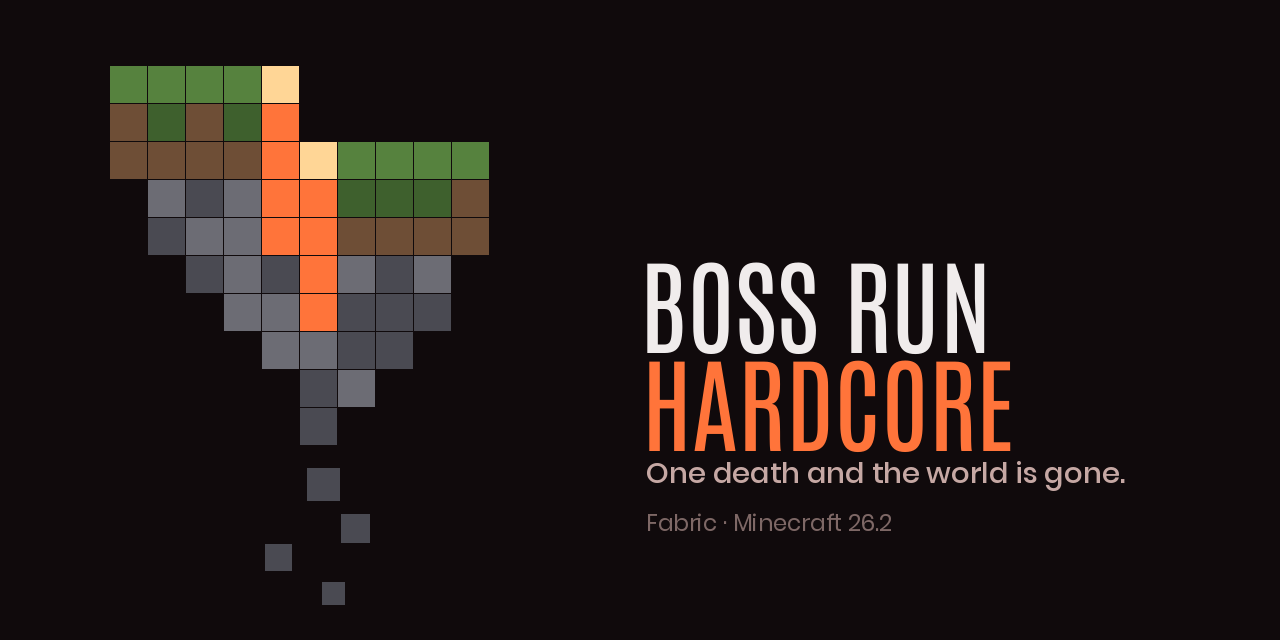
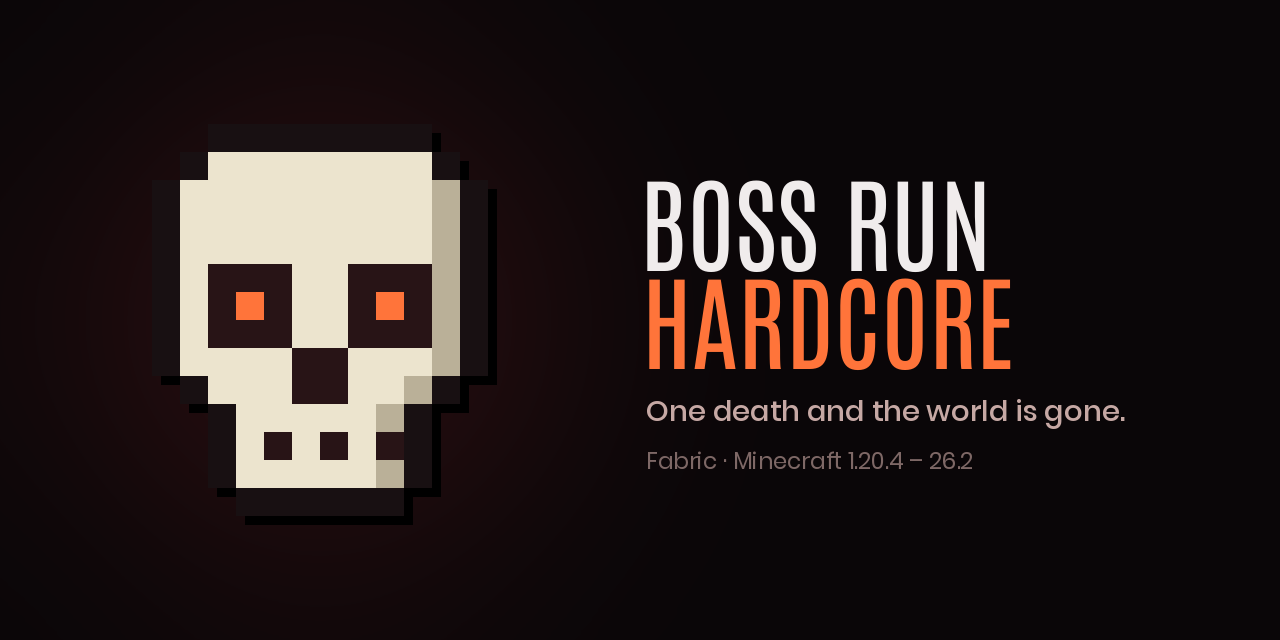
Nowa ikona i baner: pikselowa czaszka z żarzącymi się oczodołami

diff --git a/tools/make_art.py b/tools/make_art.py
@@ -1,14 +1,9 @@
 #!/usr/bin/env python3
-"""Sklada ikone projektu i baner z tego, co w tym modzie jest naprawde wlasne:
-znikajacego swiata.
-
-Kategoria "hardcore" na Modrincie to same serca - zlote, czerwone, przekreslone. Serce
-wygladaloby jak kazdy inny mod obok. Tresc Boss Runa jest inna: to nie gracz umiera,
-tylko SWIAT idzie do kosza. Ikona pokazuje wiec kawalek terenu pekajacy na pol, z rozzarzona
-szczelina i blokami odpadajacymi w ciemnosc.
+"""Sklada ikone projektu i baner: pikselowa czaszka z zarzacymi sie oczodolami.
 
 Rysujemy na grubej siatce (16 kratek na bok), bo ikona ma byc czytelna w 48 px na liscie -
 drobne detale i tak by tam zniknely, a kanciasty ksztalt czyta sie od razu jako Minecraft.
+Zar w oczach ma ten sam pomaranczowy, co napis HARDCORE na banerze.
 
 Uzycie:  python3 tools/make_art.py
          FONT_DIR=/sciezka/do/fontow python3 tools/make_art.py   # dla banera
@@ -18,92 +13,85 @@ Baner potrzebuje Antonio i Poppins (oba SIL OFL, Google Fonts). Nie trzymamy ich
 bez nich powstaje sama ikona.
 """
 import os
-import random
 from pathlib import Path
 
-from PIL import Image, ImageDraw, ImageFont
+from PIL import Image, ImageDraw, ImageFilter, ImageFont
 
 WYNIK = Path(__file__).resolve().parent.parent / "docs" / "media"
 FONTY = Path(os.environ.get("FONT_DIR", "/usr/share/fonts"))
 
-TLO = (16, 10, 12)          # prawie czern z czerwona nuta - niebezpieczenstwo bez krzyku
-TRAWA = (86, 130, 62)
-TRAWA_CIEN = (62, 96, 45)
-ZIEMIA = (110, 78, 54)
-KAMIEN = (108, 108, 116)
-KAMIEN_CIEN = (74, 74, 82)
-SZCZELINA = (255, 116, 58)   # rozgrzana krawedz pekniecia
-SZCZELINA_JASNA = (255, 214, 150)
+TLO = (10, 6, 8)
+TLO_POSWIATA = (40, 14, 16)  # czerwonawy srodek - niebezpieczenstwo bez krzyku
+ZAR = (255, 116, 58)
 
-# Szerokosc kolejnych rzedow terenu w kratkach, liczona od szczeliny w kazda strone.
-# Wyspa zwezajaca sie ku dolowi - kanciasty klin, nie prostokat.
-RZEDY = [5, 5, 5, 4, 4, 3, 2, 1]
-ZIARNO = 5
-
-
-def _kolor(r, losowy):
-    if r == 0:
-        return TRAWA
-    if r == 1:
-        return TRAWA_CIEN if losowy < .3 else ZIEMIA
-    if r == 2:
-        return ZIEMIA
-    return KAMIEN_CIEN if losowy < .35 else KAMIEN
+CZASZKA = [
+    "....KKKKKKKK....",
+    "...KWWWWWWWWK...",
+    "..KWWWWWWWWWSK..",
+    "..KWWWWWWWWWSK..",
+    "..KWWWWWWWWWSK..",
+    "..KWEEEWWEEESK..",
+    "..KWEOEWWEOESK..",
+    "..KWEEEWWEEESK..",
+    "..KWWWWEEWWWSK..",
+    "...KWWWEEWWSK...",
+    "....KWWWWWSK....",
+    "....KWEWEWEK....",
+    "....KWWWWWSK....",
+    ".....KKKKKK.....",
+]
+KOLORY = {"K": (24, 16, 18), "W": (236, 228, 206), "S": (186, 176, 152), "E": (40, 20, 22), "O": ZAR}
 
 
-def wyspa(rys, srodek_x, gora_y, kratka, spadek=2):
-    """Teren rozdarty wzdluz srodka. Prawa polowa osuwa sie o kilka kratek w dol -
-    to samo pekniecie, co w opisie moda: swiat rozlatuje sie po jednej smierci.
-    Krawedzie zwrocone do szczeliny sa rozgrzane, wiec oko idzie prosto do rozdarcia."""
-    random.seed(ZIARNO)
-    for r, szer in enumerate(RZEDY):
-        for polowa, znak in ((0, -1), (1, 1)):
-            y = gora_y + (r + (spadek if polowa else 0)) * kratka
-            for i in range(szer):
-                kolor = _kolor(r, random.random())
-                if i == 0 and r < 5:                       # kratka przy samej szczelinie
-                    kolor = SZCZELINA_JASNA if r == 0 else SZCZELINA
-                x = srodek_x + (i if znak > 0 else -i - 1) * kratka
-                rys.rectangle([x, y, x + kratka - 2, y + kratka - 2], fill=kolor)
+def _poswiata(im, box, promien, kolor):
+    maska = Image.new("L", im.size, 0)
+    ImageDraw.Draw(maska).ellipse(box, fill=255)
+    maska = maska.filter(ImageFilter.GaussianBlur(promien))
+    return Image.composite(Image.new("RGB", im.size, kolor), im, maska)
 
 
-def odpryski(rys, srodek_x, gora_y, kratka, spadek=2):
-    """Kilka blokow juz wypadlo ze szczeliny - to one robia z pekniecia ruch.
-    Lecą w dol wzdluz rozdarcia, nie po calym kafelku, zeby nie wygladaly na szum."""
-    for dx, dy, ubytek in ((0.2, 8.6, 6), (1.1, 9.8, 10), (-0.9, 10.6, 12), (0.6, 11.6, 16)):
-        bok = kratka - ubytek
-        x = srodek_x + dx * kratka
-        y = gora_y + (dy + spadek) * kratka
-        rys.rectangle([x, y, x + bok, y + bok], fill=KAMIEN_CIEN)
+def czaszka(im, ox, oy, kratka):
+    """Najpierw zar pod oczodolami, potem twardy cien, na koncu same piksele."""
+    for y, rzad in enumerate(CZASZKA):
+        for x, c in enumerate(rzad):
+            if c == "O":
+                sx, sy = ox + x * kratka + kratka // 2, oy + y * kratka + kratka // 2
+                im = _poswiata(im, (sx - kratka, sy - kratka, sx + kratka, sy + kratka),
+                               kratka * 0.7, (255, 90, 30))
+    rys = ImageDraw.Draw(im)
+    for przes, cien in ((kratka // 3, True), (0, False)):
+        for y, rzad in enumerate(CZASZKA):
+            for x, c in enumerate(rzad):
+                if c in KOLORY:
+                    x0, y0 = ox + x * kratka + przes, oy + y * kratka + przes
+                    rys.rectangle([x0, y0, x0 + kratka - 1, y0 + kratka - 1],
+                                  fill=(0, 0, 0) if cien else KOLORY[c])
+    return im
 
 
 def ikona(bok=512):
     im = Image.new("RGB", (bok, bok), TLO)
-    rys = ImageDraw.Draw(im)
-    kratka = bok // 16
-    wyspa(rys, bok // 2, kratka * 2, kratka)
-    odpryski(rys, bok // 2, kratka * 2, kratka)
-    return im
+    im = _poswiata(im, (60, 60, bok - 60, bok - 60), 90, TLO_POSWIATA)
+    kratka = bok * 28 // 512
+    return czaszka(im, (bok - 16 * kratka) // 2, (bok - len(CZASZKA) * kratka) // 2, kratka)
 
 
 def baner(szer=1280, wys=640):
     im = Image.new("RGB", (szer, wys), TLO)
+    im = _poswiata(im, (80, 80, 560, 560), 110, TLO_POSWIATA)
+    kratka = 28
+    im = czaszka(im, 320 - 8 * kratka, (wys - len(CZASZKA) * kratka) // 2, kratka)
     rys = ImageDraw.Draw(im)
-    kratka = 38
-    # Wyzej niz w ikonie, zeby spadajace bloki zmiescily sie nad dolna krawedzia.
-    wyspa(rys, 300, 66, kratka)
-    odpryski(rys, 300, 66, kratka)
-
-    rys.text((640, 232), "BOSS RUN",
+    rys.text((640, 150), "BOSS RUN",
              font=ImageFont.truetype(str(FONTY / "Antonio-VariableFont_wght.ttf"), 104),
              fill=(240, 236, 236))
-    rys.text((642, 330), "HARDCORE",
+    rys.text((642, 248), "HARDCORE",
              font=ImageFont.truetype(str(FONTY / "Antonio-VariableFont_wght.ttf"), 104),
-             fill=SZCZELINA)
-    rys.text((646, 452), "One death and the world is gone.",
+             fill=ZAR)
+    rys.text((646, 390), "One death and the world is gone.",
              font=ImageFont.truetype(str(FONTY / "Poppins-Medium.ttf"), 29),
              fill=(198, 168, 164))
-    rys.text((646, 506), "Fabric · Minecraft 26.2",
+    rys.text((646, 444), "Fabric · Minecraft 1.20.4 – 26.2",
              font=ImageFont.truetype(str(FONTY / "Poppins-Regular.ttf"), 23),
              fill=(126, 104, 102))
     return im
